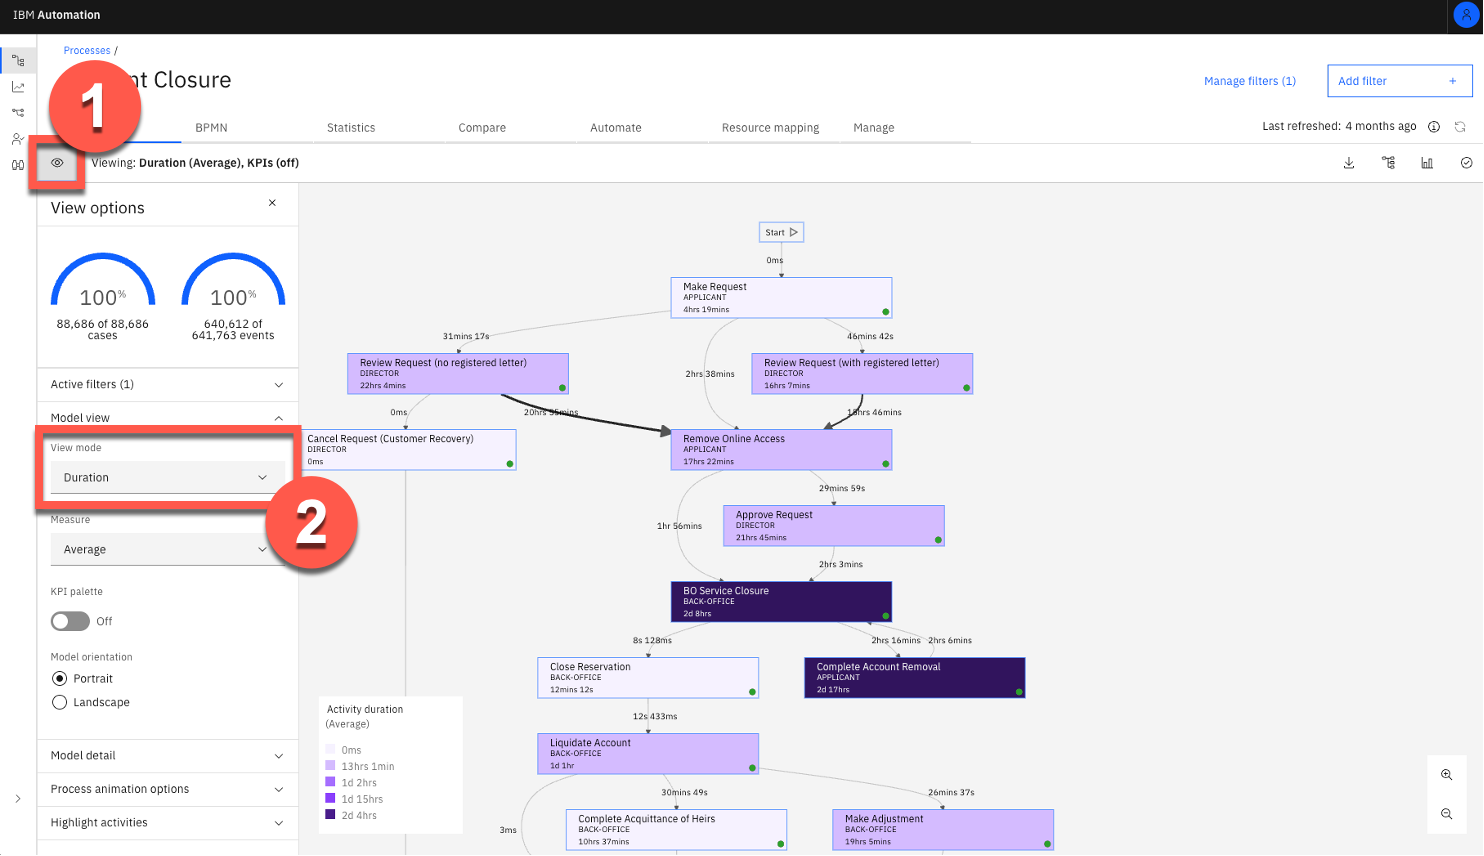
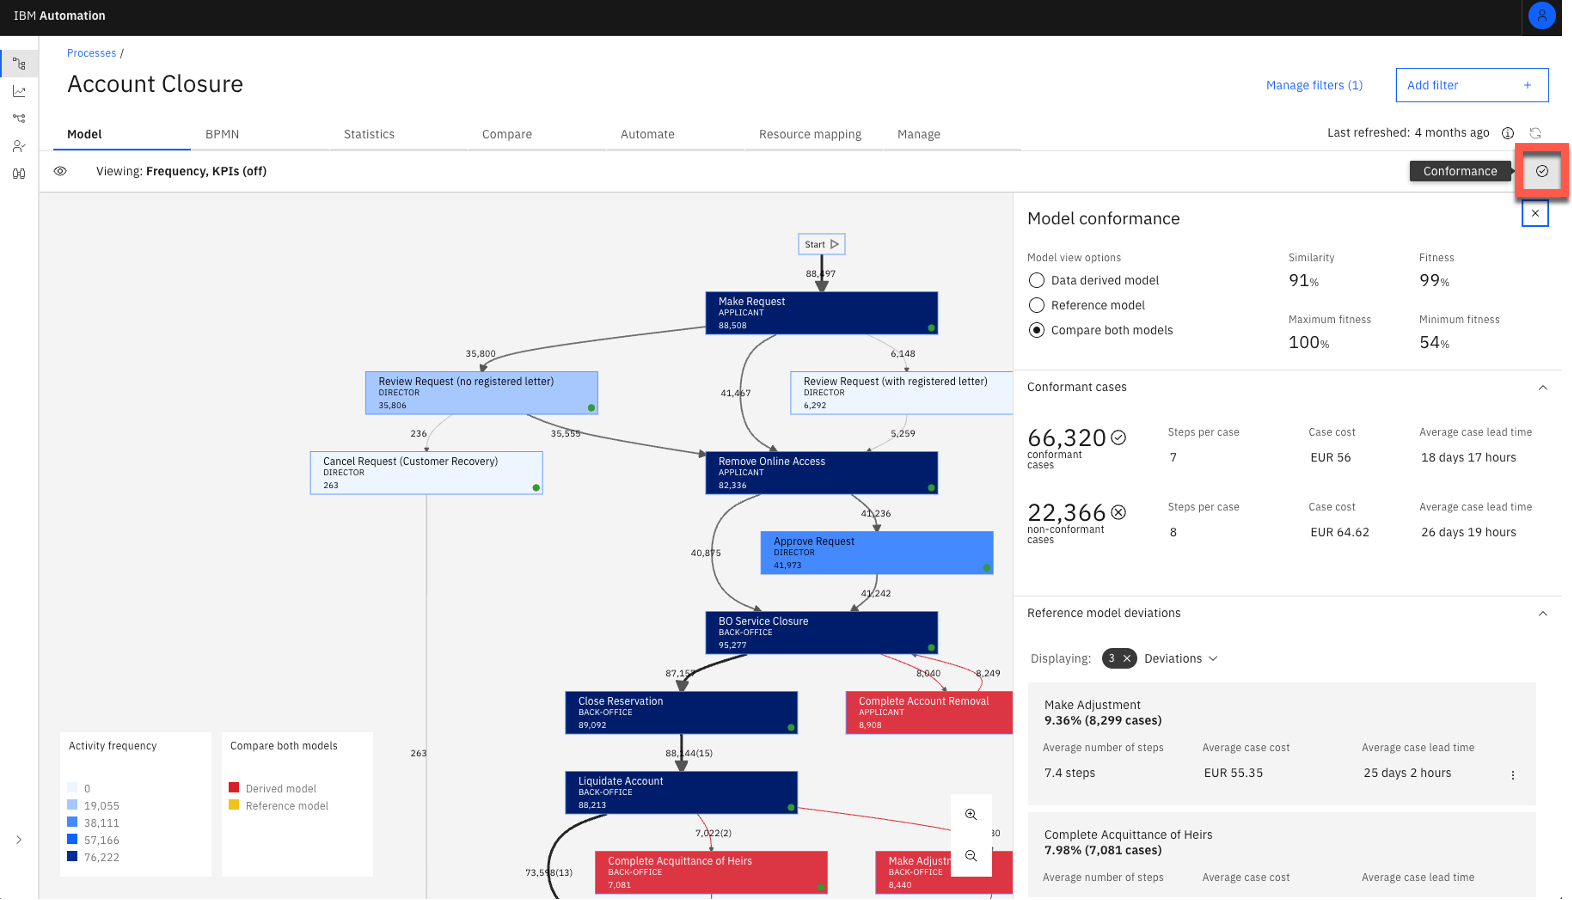
Updates to Orchestrate 102 lab

diff --git a/content/Watsonx/Orchestrate/102.md b/content/Watsonx/Orchestrate/102.md
@@ -18,7 +18,7 @@ Focus Bank is a regional bank that is not meeting its regulatory requirements. T
 
 Analyzing processes in process mining starts with importing log files from the applications used in your business processes. Focus Bank’s account closing process uses a customer service system to take the customer’s request, a network access application to remove online access to the accounts and banking systems to liquidate and delete the account.
 
-1. Show the **Data source** page within the Process mining workspace, which you opened during demo preparation.
+1. Under Recent Projects, click **Banking Account Closure**.
 
 ![](./images/102/001.png)
 
@@ -54,6 +54,8 @@ When we select the first process variant, the visualization updates to display t
 
 3. Click the **Conformance** icon.
 
+![](./images/102/005.png)
+
 We’ve completed our first view of process analysis. Let’s see how the account closure process behaves versus what was expected.
 
 Process modeling and process mining tools complement each other very well. Focus Bank had previously mapped out the account closure process using IBM Blueworks Live, which is a cloud-based collaborative process modeling application. They published a reference model to define how they intended the process to be performed, but they had no way to compare the reference model against the real-world performance. They simply had to hope the process was being performed as intended.
@@ -62,7 +64,7 @@ Using the process mining tool, the bank imported their Business Process Modeling
 
 4. In the **Model conformance** panel, under **Model view options**, select **Reference model** to show the reference model (i.e., the BlueWorks Live model). Then, select **Data derived model** to show the data-driven model (i.e., the process mining model). Lastly, select **Compare both models**.
 
-![](./images/102/005.png)
+![](./images/102/006.png)
 
 By selecting ‘Reference,’ we visualize the reference model.
 
@@ -76,19 +78,19 @@ We also see the impact of time and cost on not following the reference model. Wh
 
 5. Return to the main screen by clicking the **Conformance** icon.
 
-![](./images/102/006.png)
+![](./images/102/007.png)
 
 Process mining provides various ways to analyze the performance of the account closure process. The primary dimensions to consider are time, cost, and rework. For each of these dimensions, Key Performance Indicators (KPIs) are defined and visualized in the analysis.
 
 6. Click the **Eye** icon (1) to show the **View options** panel. Change the **View mode** to **Duration** (2).
 
-![](./images/102/007.png)
+![](./images/102/008.png)
 
 Let’s see how the account closure process is performing based on time. ‘BO Service Closure’ is one of the activities taking the most time within the process. On average it takes more than a week to complete the activity. Since almost every case flows through this activity, this is our fundamental process bottleneck.
 
 7. Set **KPI palette** to **On**.
 
-![](./images/102/008.png)
+![](./images/102/009.png)
 
 Next, let’s consider KPI measurement. Defining KPIs for the process facilitates process analysis. KPIs for individual activity durations provide insights into whether actual durations are meeting expectations.
 
@@ -100,7 +102,7 @@ Focus Bank generated a standard BPMN (Business Process Modeling Notation) diagra
 
 1. Click the **BPMN** tab and wait for the model to generate.
 
-![](./images/102/009.png)
+![](./images/102/010.png)
 
 The account closure activities, swim lanes, decision points, and process flows are shown in the BPMN diagram.
 
@@ -110,11 +112,11 @@ Since the BPMN model was generated from actual account closure data, each decisi
 
 1. Click the **drop-down list** icon (1) next to **Create simulation**. Click **Discovery decision rules** (2).
 
-![](./images/102/010.png)
-
-2. Click the decision gateway labeled **GW-XOR-19** (after **Liquidate Account**).
-
 ![](./images/102/011.png)
+
+2. Click the decision gateway labeled **GW-XOR-22** (after **Liquidate Account**).
+
+![](./images/102/012.png)
 
 For example, we can see why the account closure requires the extra step ‘Make Adjustment.’ It happens based on the status of the account closure request.
 
@@ -122,15 +124,17 @@ We can export the BPMN and decision mining rules to workflow and decision manage
 
 3. Click the **X** on the top right to close the **Gateway information** screen.
 
-![](./images/102/012.png)
+![](./images/102/013.png)
 
 4. Click the **X** again to close the **Rules overview** screen.
 
-![](./images/102/013.png)
-
-Click the **Model** tab.
-
 ![](./images/102/014.png)
+
+5. Click the **Model** tab.
+
+![](./images/102/015.png)
+
+## Mining desktop tasks
 
 Now, let’s focus on the bottleneck caused by the ‘BO Service Closure’ activity we found through the activity duration analysis. We identified the bottleneck but need more information to fully understand why it is happening. Task mining provides details of what is happening during the ‘BO Service Closure’ activity at the desktop level.
 
@@ -140,37 +144,37 @@ We’re able to combine the server activity with the desktop activity to get a c
 
 We can drill down into the ‘BO Service Closure’ activity to see the resources performing the activity. This table shows that the user group called ‘BOC’ is performing most of the work (96% of the time).
 
-5. Click the **BO Service Closure** activity (1) and then the **Show activity statistics** icon (2).
-
-![](./images/102/015.png)
-
-On the **Activity statistics** page, set the **View details for cases by** to **Resource**.
+1. Click the **BO Service Closure** activity (1) and then the **Show activity statistics** icon (2).
 
 ![](./images/102/016.png)
 
-In this case, we will want to record users in the ‘BOC’ group, since they perform this activity 96% of the time. If necessary, we could record multiple groups of users to complete our task mining analysis. Once the task mining data is recorded, it is integrated into the process flow discovered in the process mining model.
-
-6. Close the **Activity statistics** screen by clicking the **X** on the top right.
+On the **Activity statistics** page, set the **View details for cases by** to **Resource**.
 
 ![](./images/102/017.png)
 
-7. Click the **Launch task mining process** icon.
+In this case, we will want to record users in the ‘BOC’ group, since they perform this activity 96% of the time. If necessary, we could record multiple groups of users to complete our task mining analysis. Once the task mining data is recorded, it is integrated into the process flow discovered in the process mining model.
+
+2. Close the **Activity statistics** screen by clicking the **X** on the top right.
 
 ![](./images/102/018.png)
 
-A new window opens with the task mining view for the ‘BO Service Closure’ activity. All the capabilities we reviewed for process mining are available for task mining. We see the frequency of each step of the ‘BO Service Closure’ activity. These are the desktop steps needed to complete this activity, such as using the software applications and websites needed to close the account.
-
-8. In the **View options** panel, under **Model view**, set the **View mode** to **Duration** (1). Click the **Variants** icon (2).
+3. Click the **Launch task mining process** icon.
 
 ![](./images/102/019.png)
+
+A new window opens with the task mining view for the ‘BO Service Closure’ activity. All the capabilities we reviewed for process mining are available for task mining. We see the frequency of each step of the ‘BO Service Closure’ activity. These are the desktop steps needed to complete this activity, such as using the software applications and websites needed to close the account.
+
+4. In the **View options** panel, under **Model view**, set the **View mode** to **Duration** (1). Click the **Variants** icon (2).
+
+![](./images/102/020.png)
 
 We can view the variants for this activity. The most frequent variant occurs just over 50% of the time. Therefore, automating the first variant would impact at least half of the total account closures.
 
 Next, let’s perform a deeper analysis of the ‘BO Service Closure’ task.
 
-9. Click the **Analytics** icon.
+5. Click the **Analytics** icon.
 
-![](./images/102/020.png)
+![](./images/102/021.png)
 
 Analytic views, such as this one, can be created by business users and shared within your organization. As you discover and analyze new processes, you can create and share new views as needed. This level of analysis is used to determine the benefits, such as Return on Investment (ROI), that can be realized from automation.
 
@@ -182,37 +186,43 @@ In the top center, we see ‘Productivity by Subtask.’ Each subtask time is co
 
 This analysis reveals the potential impact of how much time we would save from automation. It is quite common for analysts to base their ROI analysis on total subtask times because they do not realize or can’t measure the idle time and time spent on other tasks. With task mining, we have identified the actual time spent on a specific task as we build our business case for prioritization.
 
-10. In the **Time Consumed by Application** panel at the bottom, hover within any of the activities to see the total time spent using the application.
+6. In the **Time Consumed by Application** panel at the bottom, hover within any of the activities to see the total time spent using the application.
 
 > Hover inside the bar on a particular color section. Highlight a single color, such as the blue or orange part.
 
-![](./images/102/021.png)
+![](./images/102/022.png)
 
 In the bottom center, the ‘Time Consumed by Application’ panel shows the time spent in the individual applications used to complete the ‘BO Service Closure’ task. Each bar represents a software application broken down by the total time spent performing each activity.
 
 We’ll exit the task mining view so we can move on to simulation.
 
-11. Click the **Analytics** icon (1) and then **Processes** (2).
-
-![](./images/102/022.png)
-
-12. Click **Processes**.
+7. Click the **Assets** button to go back to the Assets tab.
 
 ![](./images/102/023.png)
 
-13. Click **Account Closure**.
+8. Click **Banking Account Closure**.
 
 ![](./images/102/024.png)
 
-We identified opportunities to address the two main problems with the Account Closure process: (1) time to complete and (2) execution cost. Before acting, it is critical for the bank to understand the impact of planned changes and the expected outcome. The bank used simulation to predict the benefits of making changes to the process.
-
-14. Click the **BPMN** tab (1) and then **Create simulation** (2).
+9. Click **Assets** in the breadcrumb to go back to the Asset tab.
 
 ![](./images/102/025.png)
 
-15. Provide a **Simulation title** (such as **‘Account Closure’**) (1), and click **Create simulation** (2).
+10. Click **Banking Account Closure**.
 
 ![](./images/102/026.png)
+
+## Using simulation to optimize the process
+
+We identified opportunities to address the two main problems with the Account Closure process: (1) time to complete and (2) execution cost. Before acting, it is critical for the bank to understand the impact of planned changes and the expected outcome. The bank used simulation to predict the benefits of making changes to the process.
+
+1. Click the **BPMN** tab (1) and then **Create simulation** (2).
+
+![](./images/102/027.png)
+
+2. Provide a **Simulation title** (such as **‘Account Closure’**) (1), and click **Create simulation** (2).
+
+![](./images/102/028.png)
 
 As they consider possible process improvements, the bank compares the modified process to the currently executing process. This enables them to identify which changes would yield the greatest business benefits. They are therefore able to validate the business case before making the investment to change the process.
 
@@ -220,34 +230,34 @@ The bank uses simulation to determine the impact of changes to individual activi
 
 For the ‘Account Closure’ process, the bank focuses on meeting the regulatory requirement of fourteen days to process account closure requests. Their previous analysis identifies that the main process bottleneck is the ‘BO Service Closure’ activity.
 
-16. Scroll down to show different activities.
+3. Scroll down to show different activities.
 
-![](./images/102/027.png)
+![](./images/102/029.png)
 
 From here, the bank starts with historical process data and changes staffing levels, work hours, date ranges, etc. They could also filter by business data, such as region, to isolate or compare individual locations.
 
-17. Scroll to the **BO Service Closure** activity.
+4. Scroll to the **BO Service Closure** activity.
 
 Highlight the following:
 * **Settings** – Change staff availability, total service time, and actual working time
 * **Scheduling** – Change hours of operation
 * **RPA** – Automate a task
 
-![](./images/102/028.png)
+![](./images/102/030.png)
 
 Using process mining, the bank identifies the bottleneck caused by the ‘BO Service Closure’ activity. They further identify, using task mining, that over 50% of the tasks for this activity follow the same steps to complete. They suspect the activity could be fully automated, due to the low number of task variants. They simulate the outcome of automating this step with RPA.
 
-18. Select the **Robotic quote** tab and change the percentage of automation to **100%**.
+5. Select the **Robotic quote** tab and change the percentage of automation to **100%**.
 
-![](./images/102/029.png)
+![](./images/102/031.png)
 
-19. Click **Run Simulation**.
+6. Click **Run Simulation**.
 
-![](./images/102/030.png)
+![](./images/102/032.png)
 
 You will see the following simulation results:
 
-![](./images/102/031.png)
+![](./images/102/033.png)
 
 The bank is now able see the results of making this change from the “as-is” model compared to the “to-be” model. With this new automation, the bank is expected to reduce the average end-to-end account closure time from about 21 days to under 13 days, while also reducing the average cost of each case.
 

diff --git a/content/Watsonx/Orchestrate/README.md b/content/Watsonx/Orchestrate/README.md
@@ -31,3 +31,6 @@ For the 102 lab:
 - **[Module 101: Boosting Sales Productivity](/watsonx/orchestrate/101)**
 
 - **[Module 102: Process and Task Mining](/watsonx/orchestrate/102)**
+
+## [L3 Badge Quiz](https://learn.ibm.com/mod/quiz/view.php?id=289747)
+
